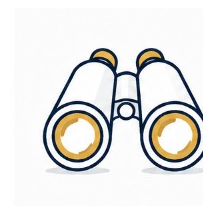
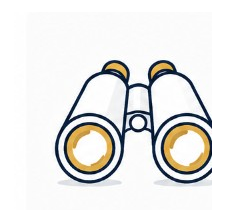
Fix skip trace intake flow on the request form.
Sync modal data to the main form, relax address validation for skip trace submissions, attach modal uploads, and prevent silent HTML5 validation blocks.

Changed region(s): [[0.1963, 0.2243, 0.9533, 0.8411]]

diff --git a/js/forms.js b/js/forms.js
@@ -125,18 +125,90 @@ function appendProcessServeFieldsToFormData(form, formData) {
   }
 }
 
+function parseSkipTraceAddress(lastAddress, jurisdiction) {
+  var result = {
+    line1: String(lastAddress || '').trim(),
+    city: '',
+    state: '',
+    zip: ''
+  };
+  var jur = String(jurisdiction || '').trim();
+  if (jur.length === 2) {
+    result.state = jur.toUpperCase();
+  } else if (jur) {
+    result.city = jur;
+  }
+
+  if (!result.line1) return result;
+
+  var zipMatch = result.line1.match(/\b(\d{5})(?:-\d{4})?\b/);
+  if (zipMatch) result.zip = zipMatch[1];
+
+  var csz = result.line1.match(/,\s*([^,]+?),\s*([A-Za-z]{2})\s+(\d{5})(?:-\d{4})?\s*$/);
+  if (csz) {
+    result.city = csz[1].trim();
+    result.state = csz[2].toUpperCase();
+    result.zip = csz[3];
+    result.line1 = result.line1.substring(0, result.line1.indexOf(',')).trim() || result.line1;
+  }
+  return result;
+}
+
+function syncSkipTraceMainFormRequirements(serviceTypeVal) {
+  var form = document.getElementById('request-form');
+  if (!form) return;
+  var isST = isSkipTraceService(serviceTypeVal);
+  var zip = form.querySelector('input[name="zip"]');
+  var addrGroup = form.querySelector('[name="addressLine1"]');
+  var addrLabel = addrGroup && addrGroup.closest('.form-group') ? addrGroup.closest('.form-group').querySelector('label') : null;
+  if (zip) {
+    if (isST) zip.removeAttribute('required');
+    else zip.setAttribute('required', 'required');
+  }
+  if (addrLabel) {
+    if (isST) {
+      addrLabel.innerHTML = 'Service Address <span style="font-weight:normal;color:#666;">(optional — subject address collected in skip trace intake)</span>';
+    } else {
+      addrLabel.innerHTML = 'Service Address <span class="req">(required)</span>';
+    }
+  }
+}
+
 function prefillRequestFormFromSkipTrace(form) {
   if (!skipTraceModalFilled || !skipTraceFormData) return;
   var st = skipTraceFormData;
-  var subjectName = ((st.firstName || '') + ' ' + (st.lastName || '')).trim();
-  var defEl = form.querySelector('[name="defendantName"]');
-  if (defEl && !defEl.value.trim() && subjectName) defEl.value = subjectName;
-  var addrEl = form.querySelector('[name="addressLine1"]');
-  if (addrEl && !addrEl.value.trim() && st.lastAddress) addrEl.value = st.lastAddress;
-  var caseEl = form.querySelector('[name="caseNumber"]');
-  if (caseEl && !caseEl.value.trim() && st.caseNumber) caseEl.value = st.caseNumber;
-  var courtEl = form.querySelector('[name="courtJurisdiction"]');
-  if (courtEl && !courtEl.value.trim() && st.court) courtEl.value = st.court;
+  var subjectName = [st.firstName, st.middleName, st.lastName].filter(Boolean).join(' ').trim();
+  var parsed = parseSkipTraceAddress(st.lastAddress, st.jurisdiction);
+
+  function fillIfEmpty(name, val) {
+    if (val == null || val === '') return;
+    var el = form.querySelector('[name="' + name + '"]');
+    if (el && !String(el.value || '').trim()) el.value = val;
+  }
+
+  fillIfEmpty('clientName', st.company || st.fullname);
+  fillIfEmpty('contactName', st.fullname);
+  fillIfEmpty('email', st.email);
+  fillIfEmpty('phone', st.phone);
+  fillIfEmpty('defendantName', subjectName);
+  fillIfEmpty('addressLine1', parsed.line1 || st.lastAddress);
+  fillIfEmpty('caseNumber', st.caseNumber);
+  fillIfEmpty('courtJurisdiction', st.court);
+  fillIfEmpty('zip', parsed.zip);
+
+  var cityInput = document.getElementById('req-city-input');
+  var cityHidden = document.getElementById('req-city-value');
+  var cityVal = parsed.city || '';
+  if (cityVal) {
+    if (cityInput && !cityInput.value.trim()) cityInput.value = cityVal;
+    if (cityHidden && !cityHidden.value.trim()) cityHidden.value = cityVal;
+  }
+
+  var stateHidden = document.getElementById('req-state-value');
+  var stateInput = document.getElementById('req-state-input');
+  var stateVal = parsed.state || (st.jurisdiction && st.jurisdiction.length === 2 ? st.jurisdiction.toUpperCase() : '') || 'CA';
+  if (stateHidden) stateHidden.value = stateVal;
+  if (stateInput && !stateInput.value.trim()) stateInput.value = stateVal;
 }
 
 function appendSkipTraceFieldsToFormData(form, formData) {
@@ -144,12 +216,22 @@ function appendSkipTraceFieldsToFormData(form, formData) {
   var st = skipTraceFormData;
   formData.set('skipTraceData', JSON.stringify(st));
 
-  var subjectName = ((st.firstName || '') + ' ' + (st.lastName || '')).trim();
+  var subjectName = [st.firstName, st.middleName, st.lastName].filter(Boolean).join(' ').trim();
+  var parsed = parseSkipTraceAddress(st.lastAddress, st.jurisdiction);
   if (subjectName) formData.set('defendantName', subjectName);
-  if (st.lastAddress) formData.set('addressLine1', st.lastAddress);
+  if (parsed.line1 || st.lastAddress) formData.set('addressLine1', parsed.line1 || st.lastAddress);
+  if (parsed.city) formData.set('city', parsed.city);
+  if (parsed.state) formData.set('state', parsed.state);
+  if (parsed.zip) formData.set('zip', parsed.zip);
   if (st.caseNumber) formData.set('caseNumber', st.caseNumber);
   if (st.court) formData.set('courtJurisdiction', st.court);
   if (st.deadline) formData.set('deadlineDate', st.deadline);
+
+  if (modalUploadedFiles && modalUploadedFiles.length) {
+    modalUploadedFiles.forEach(function (file) {
+      formData.append('files', file, file.name);
+    });
+  }
 
   var notes = [];
   if (st.purpose) notes.push('Purpose: ' + st.purpose);
@@ -623,7 +705,6 @@ function showSkipTraceModalErrors(missing) {
       missing.map(function (m) { return '<li>' + escapeFormHtml(m) + '</li>'; }).join('') + '</ul>';
     err.scrollIntoView({ behavior: 'smooth', block: 'nearest' });
   }
-  showMissingFieldsAlert('Please fill out the skip trace intake form:', missing);
 }
 
 function resolveSkipTraceServiceSelection() {
@@ -765,6 +846,11 @@ function saveSkipTraceForm() {
   skipTraceModalFilled = true;
   closeSkipTraceModal();
   renderSkipTraceSummary();
+  var reqForm = document.getElementById('request-form');
+  if (reqForm) {
+    prefillRequestFormFromSkipTrace(reqForm);
+    syncSkipTraceMainFormRequirements(getActiveServiceTypeSelect() ? getActiveServiceTypeSelect().value : '');
+  }
   var toast = document.getElementById('toast');
   if (toast) {
     toast.textContent = 'Skip trace details saved. Review the summary below or click Edit to change.';
@@ -782,6 +868,7 @@ function initHomeSkipTraceSection(containerId) {
   if (!sel) return;
   sel.addEventListener('change', function() {
     activeServiceTypeSelection = sel.value;
+    syncSkipTraceMainFormRequirements(sel.value);
     syncHomeProcessServeSection(cid);
     if (isSkipTraceService(sel.value)) {
       openSkipTraceModal();
@@ -1498,11 +1585,15 @@ function handleRequestSubmit(event) {
   const cityInput = document.getElementById('req-city-input');
   const cityHidden = document.getElementById('req-city-value');
   const cityValue = ((cityHidden && cityHidden.value.trim()) || (cityInput && cityInput.value.trim()) || '');
-  if (!cityValue) {
-    missing.push('City');
-    if (cityInput) {
-      cityInput.style.border = '2px solid #e74c3c';
-      if (!firstEmptyField) firstEmptyField = cityInput;
+  if (!isSkipTrace || !skipTraceModalFilled) {
+    if (!cityValue) {
+      missing.push('City');
+      if (cityInput) {
+        cityInput.style.border = '2px solid #e74c3c';
+        if (!firstEmptyField) firstEmptyField = cityInput;
+      }
+    } else if (cityInput) {
+      cityInput.style.border = '';
     }
   } else if (cityInput) {
     cityInput.style.border = '';
@@ -1510,15 +1601,19 @@ function handleRequestSubmit(event) {
 
   const stateHiddenEl = document.getElementById('req-state-value');
   const stateInput = document.getElementById('req-state-input');
-  const stateValue = (stateHiddenEl?.value || '').trim() || (stateInput?.value || '').trim() || 'CA';
+  let stateValue = (stateHiddenEl?.value || '').trim() || (stateInput?.value || '').trim() || 'CA';
   if (stateHiddenEl && !stateHiddenEl.value.trim()) {
     stateHiddenEl.value = stateValue;
   }
-  if (!stateValue) {
-    missing.push('State');
-    if (stateInput) {
-      stateInput.style.border = '2px solid #e74c3c';
-      if (!firstEmptyField) firstEmptyField = stateInput;
+  if (!isSkipTrace || !skipTraceModalFilled) {
+    if (!stateValue) {
+      missing.push('State');
+      if (stateInput) {
+        stateInput.style.border = '2px solid #e74c3c';
+        if (!firstEmptyField) firstEmptyField = stateInput;
+      }
+    } else if (stateInput) {
+      stateInput.style.border = '';
     }
   } else if (stateInput) {
     stateInput.style.border = '';
@@ -1527,13 +1622,27 @@ function handleRequestSubmit(event) {
   var zipInput = form.querySelector('input[name="zip"]');
   if (zipInput) {
     zipInput.value = sanitizeUsZip5(zipInput.value);
-    if (!isUsZip5(zipInput.value)) {
-      missing.push('ZIP code (5 digits)');
-      zipInput.style.border = '2px solid #e74c3c';
-      if (!firstEmptyField) firstEmptyField = zipInput;
+    if (!isSkipTrace || !skipTraceModalFilled) {
+      if (!isUsZip5(zipInput.value)) {
+        missing.push('ZIP code (5 digits)');
+        zipInput.style.border = '2px solid #e74c3c';
+        if (!firstEmptyField) firstEmptyField = zipInput;
+      } else {
+        zipInput.style.border = '';
+      }
     } else {
       zipInput.style.border = '';
     }
+  }
+
+  var resolvedCity = cityValue;
+  if (isSkipTrace && skipTraceModalFilled && skipTraceFormData && !resolvedCity) {
+    resolvedCity = parseSkipTraceAddress(skipTraceFormData.lastAddress, skipTraceFormData.jurisdiction).city
+      || skipTraceFormData.jurisdiction || '';
+  }
+  if (isSkipTrace && skipTraceModalFilled && skipTraceFormData && zipInput && !isUsZip5(zipInput.value)) {
+    var parsedZip = parseSkipTraceAddress(skipTraceFormData.lastAddress, skipTraceFormData.jurisdiction).zip;
+    if (parsedZip) zipInput.value = parsedZip;
   }
 
   var reqExtraEl = document.getElementById('home-process-extra');
@@ -1571,7 +1680,7 @@ function handleRequestSubmit(event) {
   }
 
   const formData = new FormData(form);
-  formData.set('city', cityValue || '');
+  formData.set('city', resolvedCity || cityValue || '');
   formData.set('state', stateValue || '');
   const isMultiDef = form.querySelector('input[name="home_multiple_defendants"][value="yes"]')?.checked || form.querySelector('input[name="multiple_defendants"][value="yes"]')?.checked;
   formData.set('multiple_defendants', isMultiDef ? 'true' : 'false');
@@ -2456,6 +2565,8 @@ document.addEventListener('DOMContentLoaded', function() {
       r.addEventListener('change', toggleDefendantUI);
     });
     toggleDefendantUI();
+    var stSel = reqForm.querySelector('select[name="serviceType"]');
+    if (stSel) syncSkipTraceMainFormRequirements(stSel.value);
   }
 
   initCityAutocomplete('req-city-input', 'req-city-value', 'req-city-dropdown', 'req-state-input');

diff --git a/stakeout-service.html b/stakeout-service.html
@@ -238,7 +238,7 @@
       <article class="so-package-card">
         <div class="so-package-head">
           <div class="so-package-icon-wrap">
-            <img src="assets/images/stakeout-icon-standard.png?v=2" width="80" height="80" alt="" decoding="async" loading="lazy">
+            <img src="assets/images/stakeout-icon-standard.png?v=3" width="80" height="80" alt="" decoding="async" loading="lazy">
           </div>
           <span class="so-package-price">$250</span>
         </div>
@@ -260,7 +260,7 @@
       <article class="so-package-card">
         <div class="so-package-head">
           <div class="so-package-icon-wrap">
-            <img src="assets/images/stakeout-icon-halfday.png?v=2" width="80" height="80" alt="" decoding="async" loading="lazy">
+            <img src="assets/images/stakeout-icon-halfday.png?v=4" width="80" height="80" alt="" decoding="async" loading="lazy">
           </div>
           <span class="so-package-price">$480</span>
         </div>

diff --git a/request.html b/request.html
@@ -171,7 +171,7 @@
       <p>By clicking "Submit", you agree to the <a onclick="showPage('terms')">Terms of Use</a> and all agreements herein.</p>
       <p><strong>Thank you for your business.</strong></p>
     </div>
-    <form id="request-form" onsubmit="handleRequestSubmit(event)">
+    <form id="request-form" onsubmit="handleRequestSubmit(event)" novalidate>
     <div class="form-group"><label>Client / Firm Name <span class="req">(required)</span></label><input type="text" name="clientName" required></div>
     <div class="form-group"><label>Contact Name <span class="req">(required)</span></label><input type="text" name="contactName" required></div>
     <div class="form-group"><label>Email Address <span class="req">(required)</span></label><input type="email" name="email" required></div>
